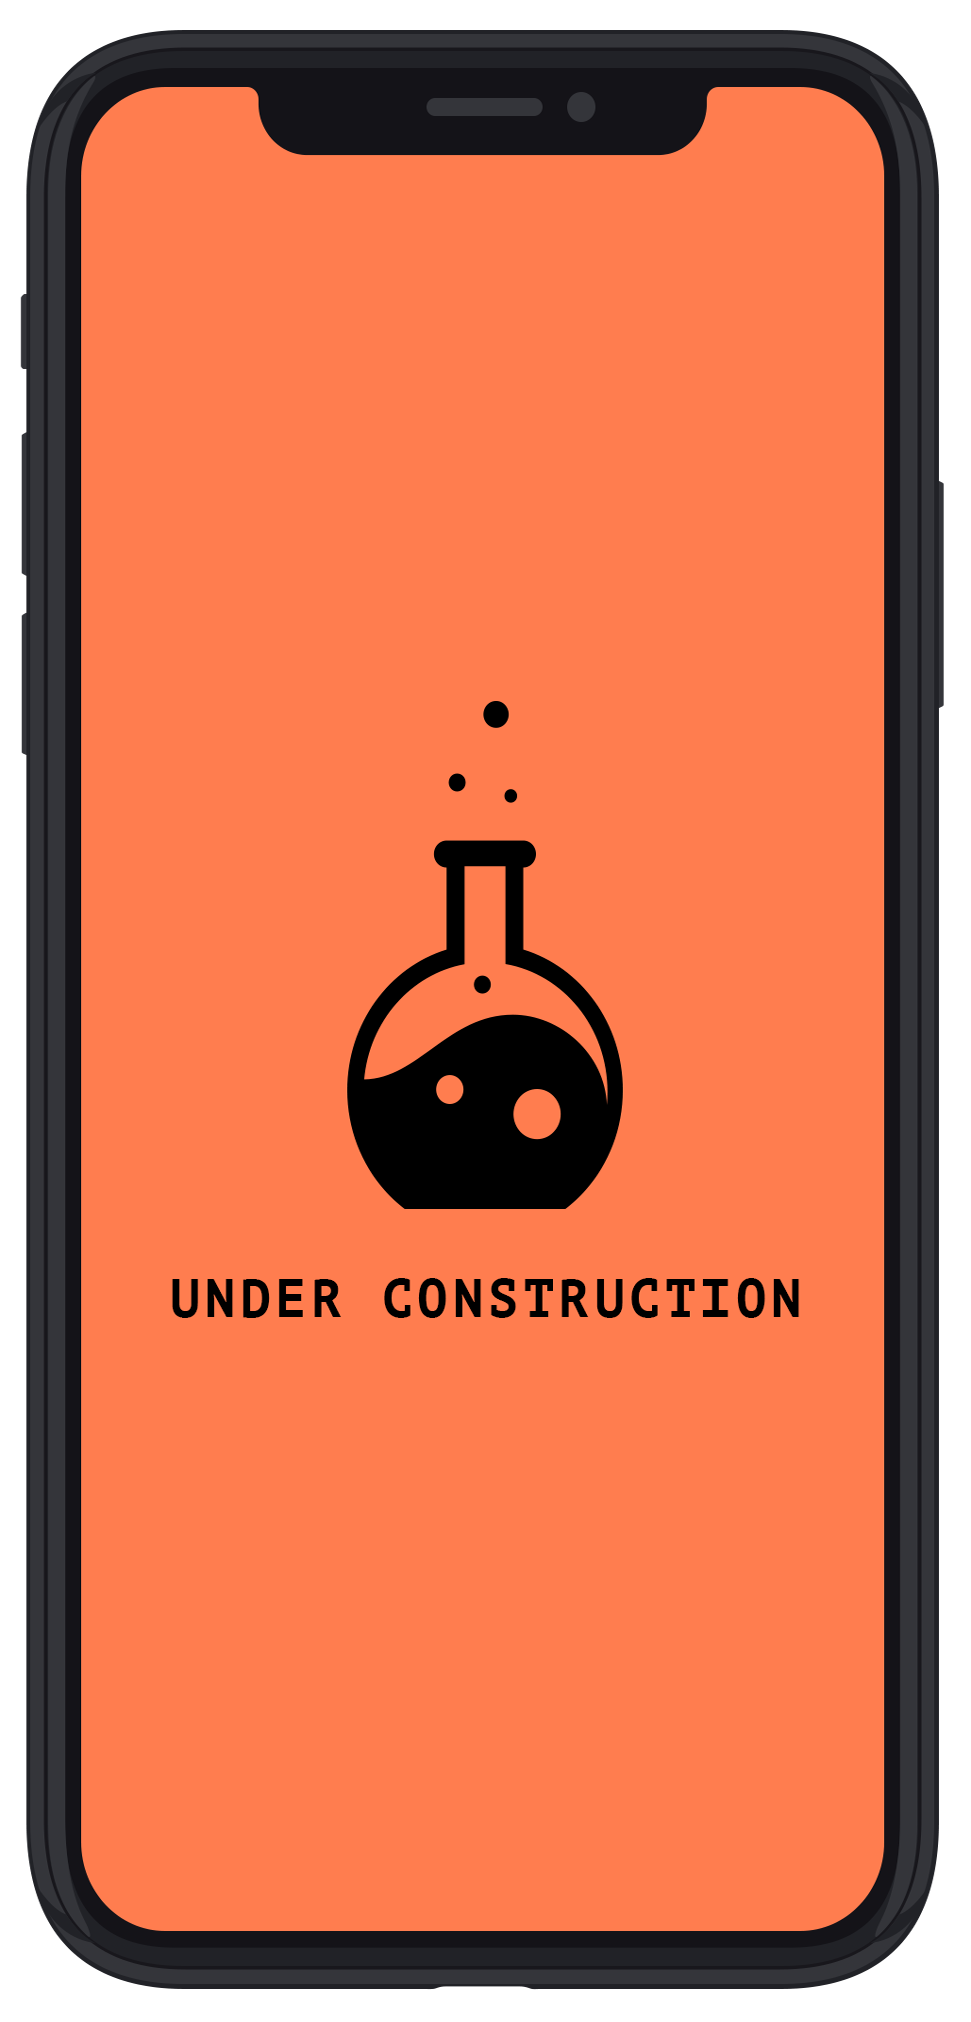
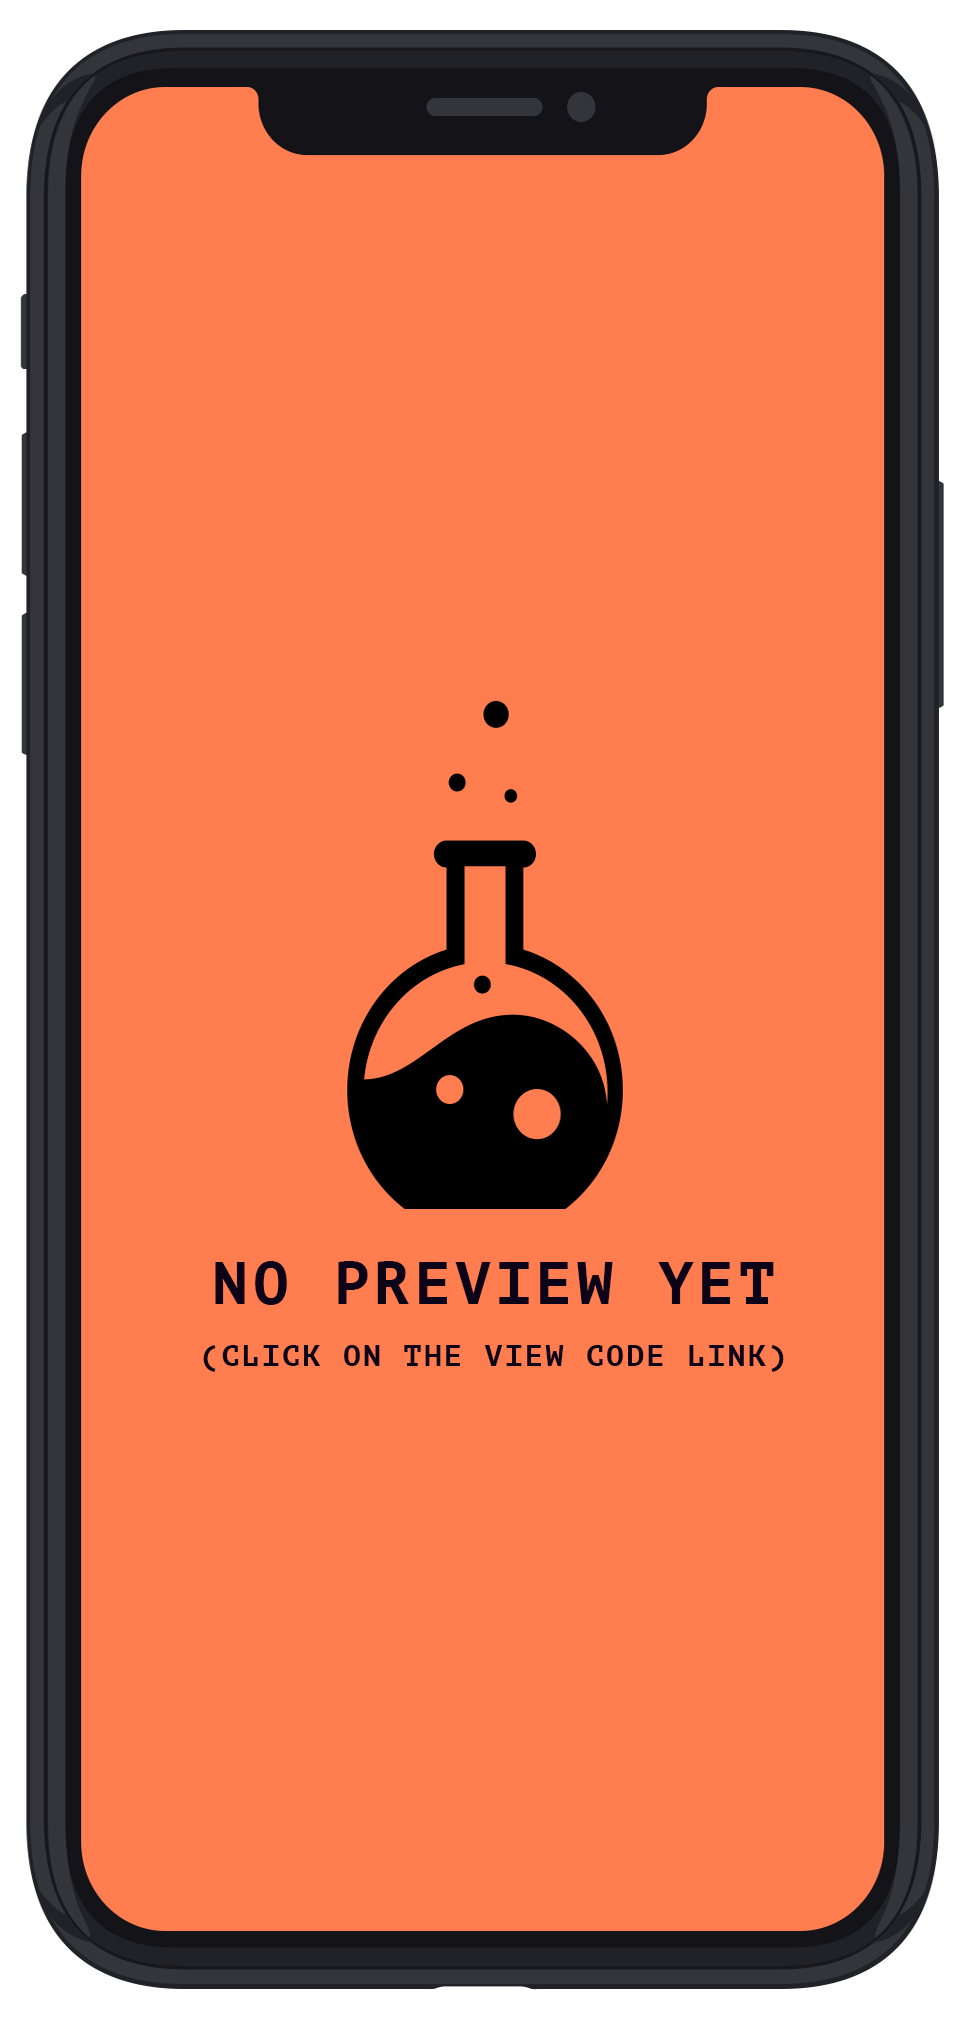
added root-mapper image

Changed region(s): [[0.1545, 0.6231, 0.8342, 0.6855]]

diff --git a/src/redux/reducers/works.js b/src/redux/reducers/works.js
@@ -26,7 +26,7 @@ const initialState = [
     thumbnailImageURL: '',
     presentationImageName: '',
     liveURL: '',
-    sortPriority: 6,
+    sortPriority: 0,
     tags: ['SQLAlchemy', 'httplib2', 'oauth2client', 'passlib', 'itsdangerous', 'flaskhttpauth', 'requests', 'Flask']
   },
   {
@@ -76,7 +76,7 @@ const initialState = [
     thumbnailImageURL: '',
     presentationImageName: '',
     liveURL: '',
-    sortPriority: 5,
+    sortPriority: 0,
     tags: ['PostgreSQL', 'SQL', 'Ubuntu', 'Linux', 'Database', 'User reporting', 'console logging', 'print data']
   },
   {
@@ -86,7 +86,7 @@ const initialState = [
     thumbnailImageURL: '',
     presentationImageName: '',
     liveURL: '',
-    sortPriority: 5,
+    sortPriority: 0,
     tags: ['Swift', 'iOS', 'Game', 'iPhone', 'Apple', 'MVC', 'Delegation']
   },
   {
@@ -106,7 +106,7 @@ const initialState = [
     thumbnailImageURL: '',
     presentationImageName: '',
     liveURL: '',
-    sortPriority: 5,
+    sortPriority: 0,
     tags: ['Flask-restful', 'Gunicorn', 'Yagmail', 'SQLAlchemy', 'API', 'Open Source']
   },
   {
@@ -116,15 +116,15 @@ const initialState = [
     thumbnailImageURL: '',
     presentationImageName: '',
     liveURL: '',
-    sortPriority: 5,
+    sortPriority: 0,
     tags: ['Java', 'Algorithms', 'Data-structures', 'Toy programs']
   },
   {
     title: 'RootMapper',
-    description: 'Mind maps made easy',
+    description: 'Mind maps made easy. I took advantage of the tree data structure to architect a mind mapping App in Swift and Objective-C. Developed physics and animations using SpriteKit. Added features such as: updating node ancestry with task completion status, collision detection, out of bounds gravity trigger, node status states, priority swapping, node deletion and children transfer, and task timer states. Programmatically drew/animated hierarchical lines and connected task nodes using handrolled trigonometry (vectors) and the CoreGraphics library. Developed the model to persisted node coordinates, details, hierarchy, priority, label etc.',
     repoURL: '',
     thumbnailImageURL: '',
-    presentationImageName: '',
+    presentationImageName: 'root-mapper.png',
     liveURL: '',
     sortPriority: 5,
     tags: ['Swift', 'Core-graphics', 'CocoaPods', 'SpriteKit', 'iOS Development', 'GrowingTextView', 'Objective-C', 'MVC', 'Delegation', 'Caching', 'data persistance', 'trigonometery']
@@ -136,7 +136,7 @@ const initialState = [
     thumbnailImageURL: '',
     presentationImageName: '',
     liveURL: '',
-    sortPriority: 5,
+    sortPriority: 0,
     tags: ['Python', 'requests', 'url-shortener', 'socketserver', 'urllib.parse', 'threading', 'os']
   },
   {

diff --git a/src/components/worksModal/index.js b/src/components/worksModal/index.js
@@ -225,7 +225,7 @@ class WorksModal extends React.Component {
         return (
             <img
               className="WorksModal-panel-image"
-              src={ work.presentationImageName }
+              src={ `${ process.env.PUBLIC_URL }/images/${ work.presentationImageName }`}
               alt="product" />
         )
       }

diff --git a/src/components/worksModal/index.scss b/src/components/worksModal/index.scss
@@ -95,7 +95,9 @@
 
     &-image {
       display: block;
-      max-width: 315px;
+      max-width: 100%;
+      max-height: 100%;
+      overflow: hidden;
       margin: auto;
       align-self: center;
     }
